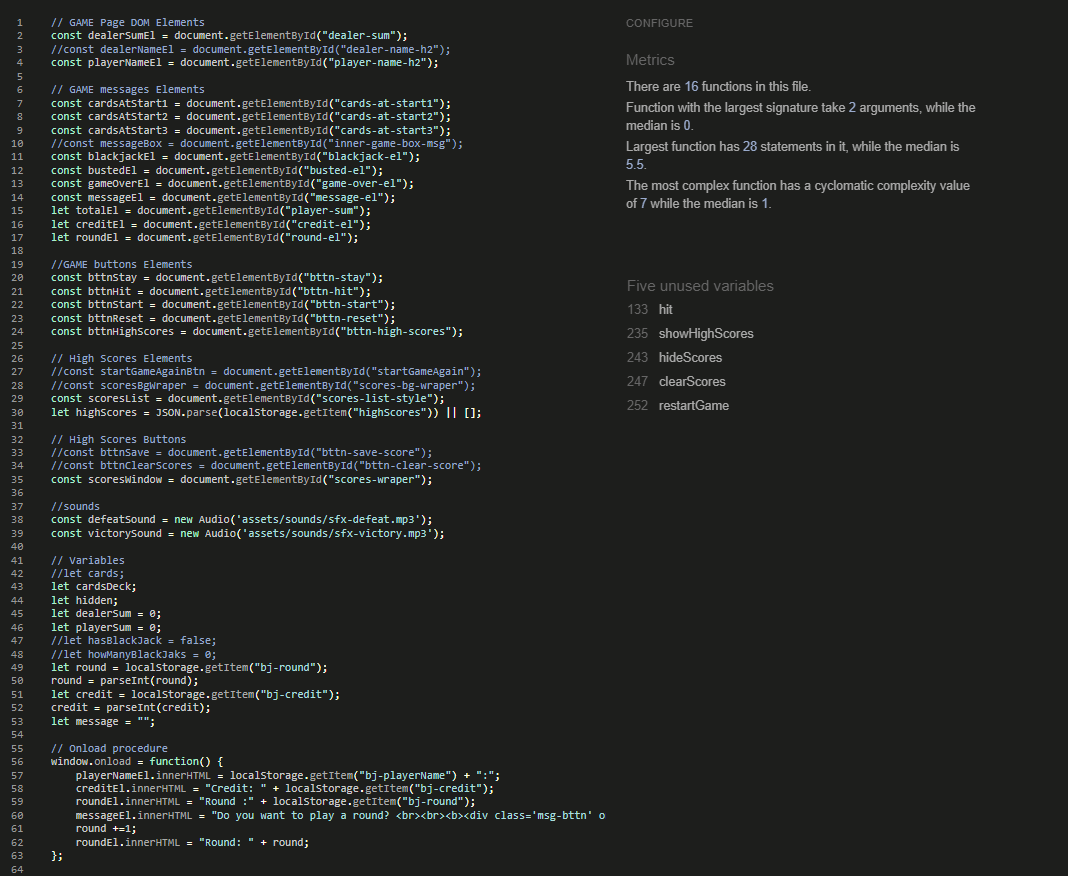
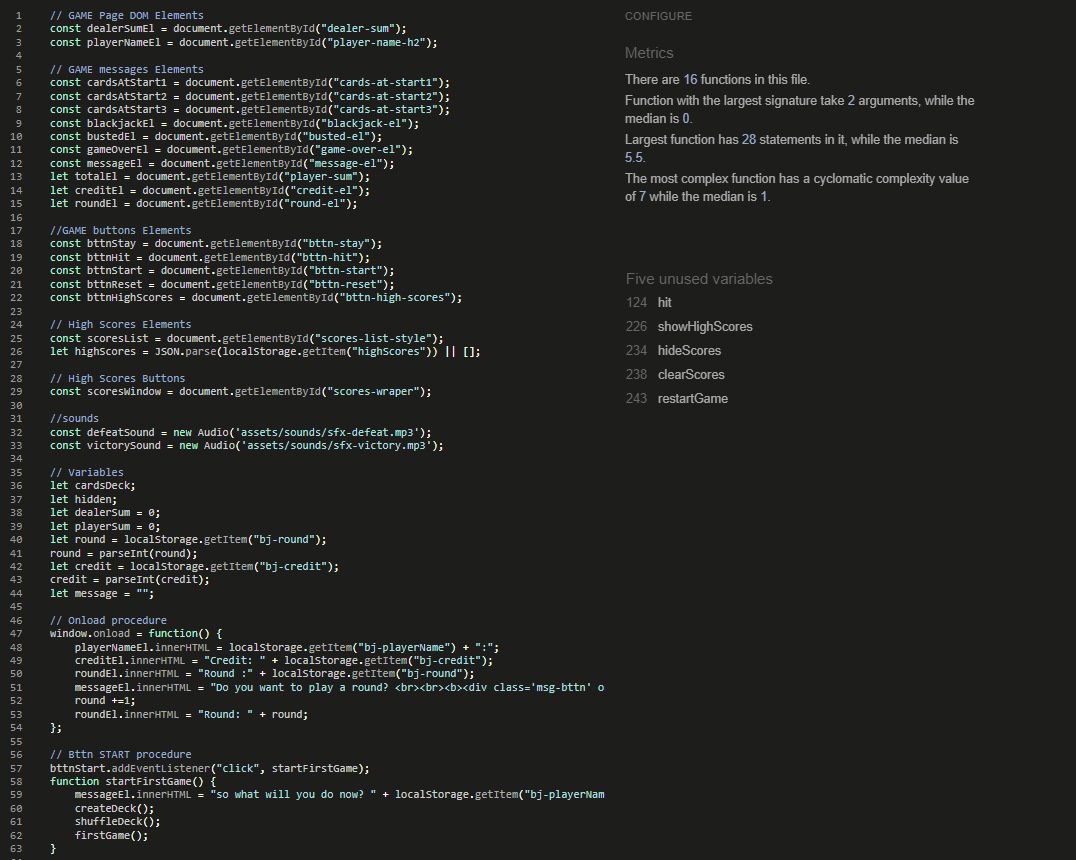
added explanation for 5 unused variables tested in JSHints

diff --git a/assets/js/script-game.js b/assets/js/script-game.js
@@ -1,13 +1,11 @@
 // GAME Page DOM Elements
 const dealerSumEl = document.getElementById("dealer-sum");
-//const dealerNameEl = document.getElementById("dealer-name-h2");
 const playerNameEl = document.getElementById("player-name-h2");
 
 // GAME messages Elements
 const cardsAtStart1 = document.getElementById("cards-at-start1");
 const cardsAtStart2 = document.getElementById("cards-at-start2");
 const cardsAtStart3 = document.getElementById("cards-at-start3");
-//const messageBox = document.getElementById("inner-game-box-msg");
 const blackjackEl = document.getElementById("blackjack-el");
 const bustedEl = document.getElementById("busted-el");
 const gameOverEl = document.getElementById("game-over-el");
@@ -24,14 +22,10 @@ const bttnReset = document.getElementById("bttn-reset");
 const bttnHighScores = document.getElementById("bttn-high-scores");
 
 // High Scores Elements
-//const startGameAgainBtn = document.getElementById("startGameAgain");
-//const scoresBgWraper = document.getElementById("scores-bg-wraper");
 const scoresList = document.getElementById("scores-list-style");
 let highScores = JSON.parse(localStorage.getItem("highScores")) || [];
 
 // High Scores Buttons
-//const bttnSave = document.getElementById("bttn-save-score");
-//const bttnClearScores = document.getElementById("bttn-clear-score");
 const scoresWindow = document.getElementById("scores-wraper");
 
 //sounds
@@ -39,13 +33,10 @@ const defeatSound = new Audio('assets/sounds/sfx-defeat.mp3');
 const victorySound = new Audio('assets/sounds/sfx-victory.mp3');
 
 // Variables
-//let cards;
 let cardsDeck;
 let hidden;
 let dealerSum = 0;
 let playerSum = 0;
-//let hasBlackJack = false;
-//let howManyBlackJaks = 0;
 let round = localStorage.getItem("bj-round");
 round = parseInt(round);
 let credit = localStorage.getItem("bj-credit");

diff --git a/assets/js/script.js b/assets/js/script.js
@@ -6,7 +6,6 @@ const loginBttnChangePlayerEl = document.getElementById("change-player");
 const loginNewPlayerBoxEl = document.getElementById("player-new-name-empty");
 const loginOldPlayerBoxEl = document.getElementById("player-old-name-empty");
 
-// On Load 
 window.onload = function() {
     validatePlayer();
 };

diff --git a/README.md b/README.md
@@ -286,6 +286,16 @@ Large display:
 
 ![image](https://github.com/ShemmyYo/black-jack-js/blob/main/assets/other/js-test-index.png) __results for Index Page__
 ***
+
+__Five unused variables__
+- 124	hit
+- 226	showHighScores
+- 234	hideScores
+- 238	clearScores
+- 243	restartGame
+
+__All 5 unused variables have actually been used in game.html as onclick__
+
 ![image](https://github.com/ShemmyYo/black-jack-js/blob/main/assets/other/js-test-game.png) __results for Game Page__
 
 
